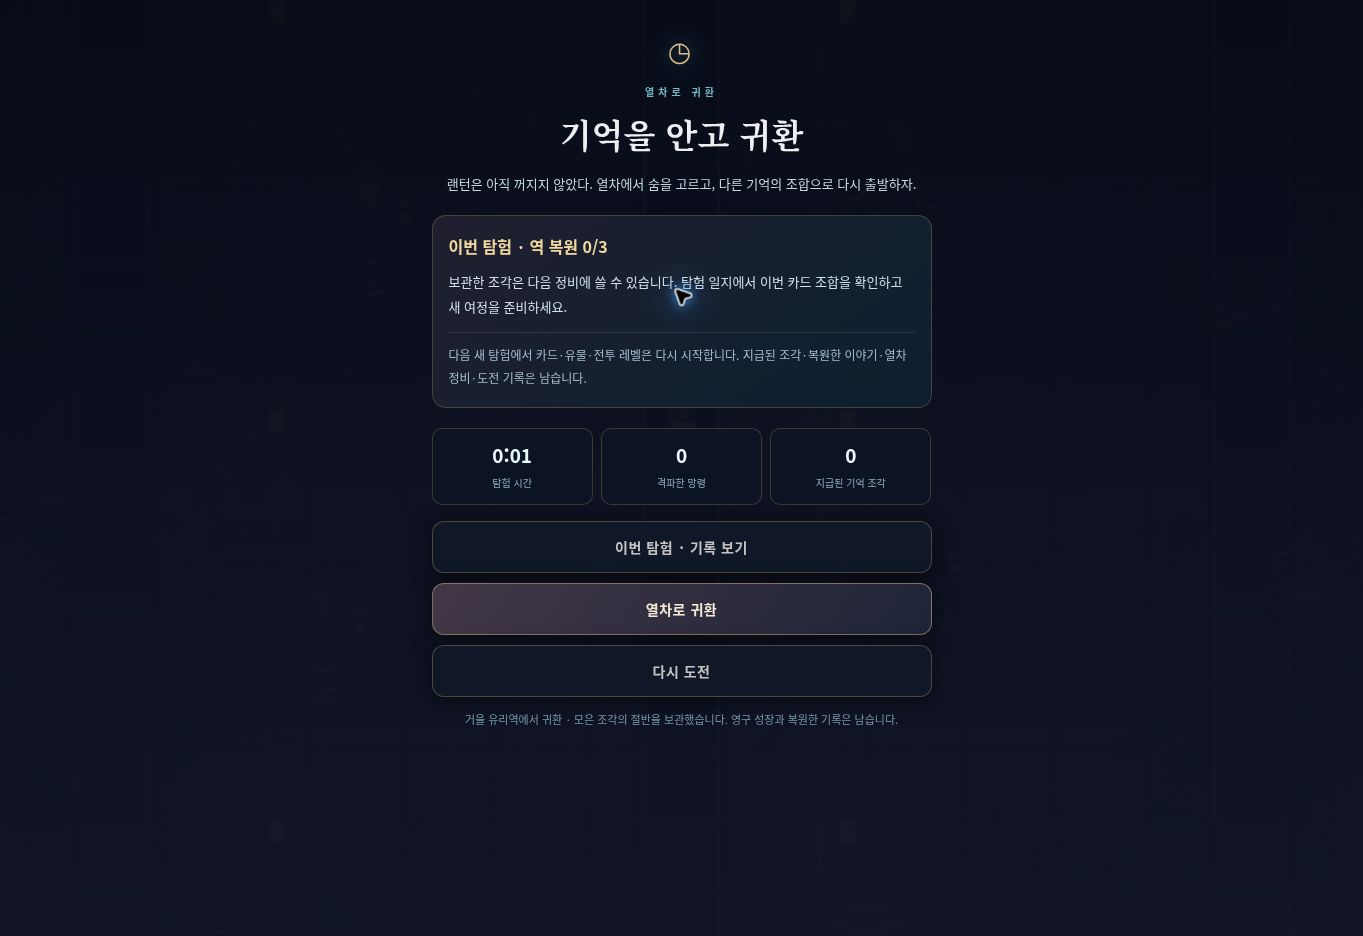
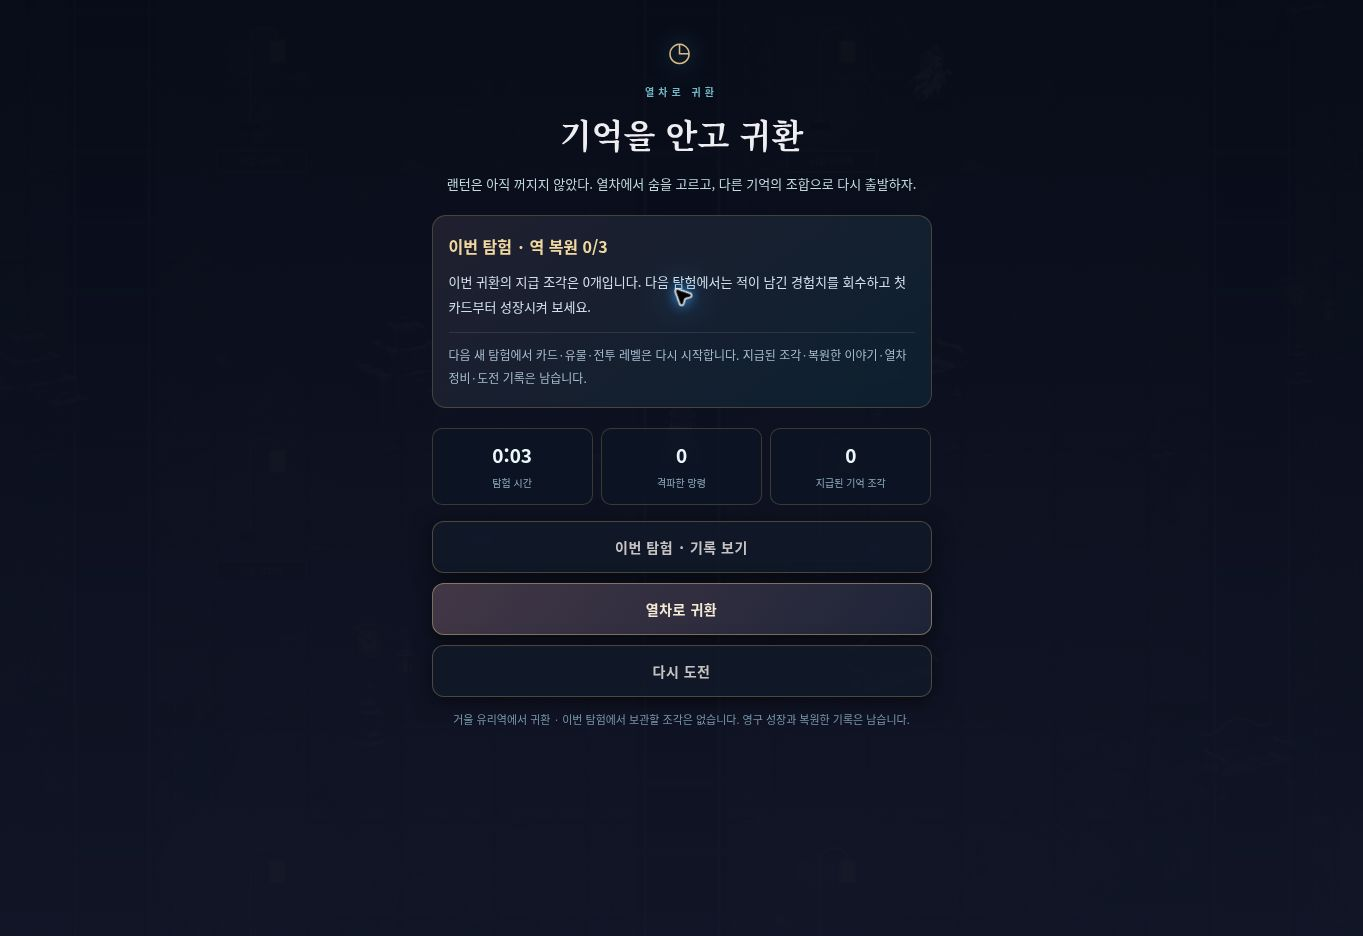
Record v0.13 deployment checks and exact browser QA limits

Changed region(s): [[0.339, 0.2788, 0.6779, 0.3408], [0.339, 0.7436, 0.6779, 0.7746]]

diff --git a/docs/QA_V013.md b/docs/QA_V013.md
@@ -31,3 +31,10 @@
 두 번째 사이클은 12개 검증을 더해 전체 155개 통과. 등불 생성/고정 위치·부분 복원·회수/보상/카드 대기·만료/일시정지·보스/사망 취소·재개/다음 역·연습 제외·영구 재화 무지급을 실제 update 경로에서 확인했다. 복원 도형·화면 밖 방향·위험 안내 우선순위·실제 아트 로드/그리기 순서도 검증했다. 신규 에셋의 실제 알파와 13,574바이트 크기, 오프라인 목록 포함을 확인했다.
 
 실제 원본 에셋으로 390×720 Canvas의 등불 기본/부분 복원(섬광 감소)/화면 밖 방향 상태를 렌더링했다(screenshots/v013-memory-lantern.jpg). 이 이미지는 장면을 구성한 렌더 검수이며 브라우저 조작/실기 플레이 캡처가 아니다. 선택 목표의 접근 위험과 보상 가치는 실제 첫 장 플레이에서 추가 조정해야 한다.
+
+
+## 최종 배포 확인
+
+- 코드 커밋 `ebd531b8f3ecadf0c71452da1ef94d222a2fab56`와 `392b0c513f5037532c083b1930f50e9a31a68135`의 GitHub Actions 테스트/Pages 배포가 모두 성공했다. 최종 전체 자동 검증은 155/155다.
+- 공개 페이지의 명시적 새 버전 열기를 거쳐 v0.13.0-rc2를 확인했다. 최신 챕터 진입·관리자 도착/소거시간·현재 목표·귀환 확인과 지급 0의 새 개선 문구를 직접 확인했다. screenshots/v013-result.jpg를 최종 결과로 교체했다.
+- 키보드 W를 30초간 유지한 원격 Chrome 검수에서 의도치 않은 일시정지 화면은 열리지 않았다. 원격 브라우저는 시뮬레이션 시간이 약 2~3초만 흐르므로 이를 30초 실시간 전투·FPS 측정·아이폰 자동 정지 재발 없음으로 해석하지 않는다. 실제 등불 출현/회수까지 진행한 브라우저 플레이 검증도 아니다.

diff --git a/DEV_STATUS.md b/DEV_STATUS.md
@@ -56,3 +56,6 @@ HP 전환·대각선/안전구간 판정·고정 잔진동·불씨 중복/만료
 전투 45초에 나타나는 선택형 기억 등불을 추가했다. 18초 안에 원 안에서 1.2초 머무르면 생성 시 고정된 경험치 8~24와 소거 위험 최대 10 완화를 얻는다. 위험하면 지나칠 수 있고 보스 준비 단계에서는 취소한다. 신규 투명 등불 아트(13.6KB)·복원 링·화면 밖 방향 표시를 추가했다. 생존 위험 처리 후에만 회수하며 기존 레벨업/저장/정산 흐름을 이용한다. 영구 조각/도전 보상은 추가하지 않았다.
 
 새로운 회수·만료·부분 복원·카드 대기·중복·보스/죽음/정산·PWA/실제 스프라이트 표시 검증을 포함해 155개 통과. 실제 에셋의 390×720 Canvas로 기본/섬광 감소/화면 밖 상태를 확인했다. 이는 실제 아이폰 플레이 검증과 구분한다.
+
+
+최종 공개 반영: `392b0c5` · v0.13.0-rc2. GitHub Actions의 테스트와 Pages 배포 성공, 실제 공개 페이지 버전 갱신/전투 진입/최신 귀환 결과 확인. 원격 브라우저의 시간 지연 때문에 등불 회수의 전체 플레이와 성능은 별도 검증으로 남겼다.
